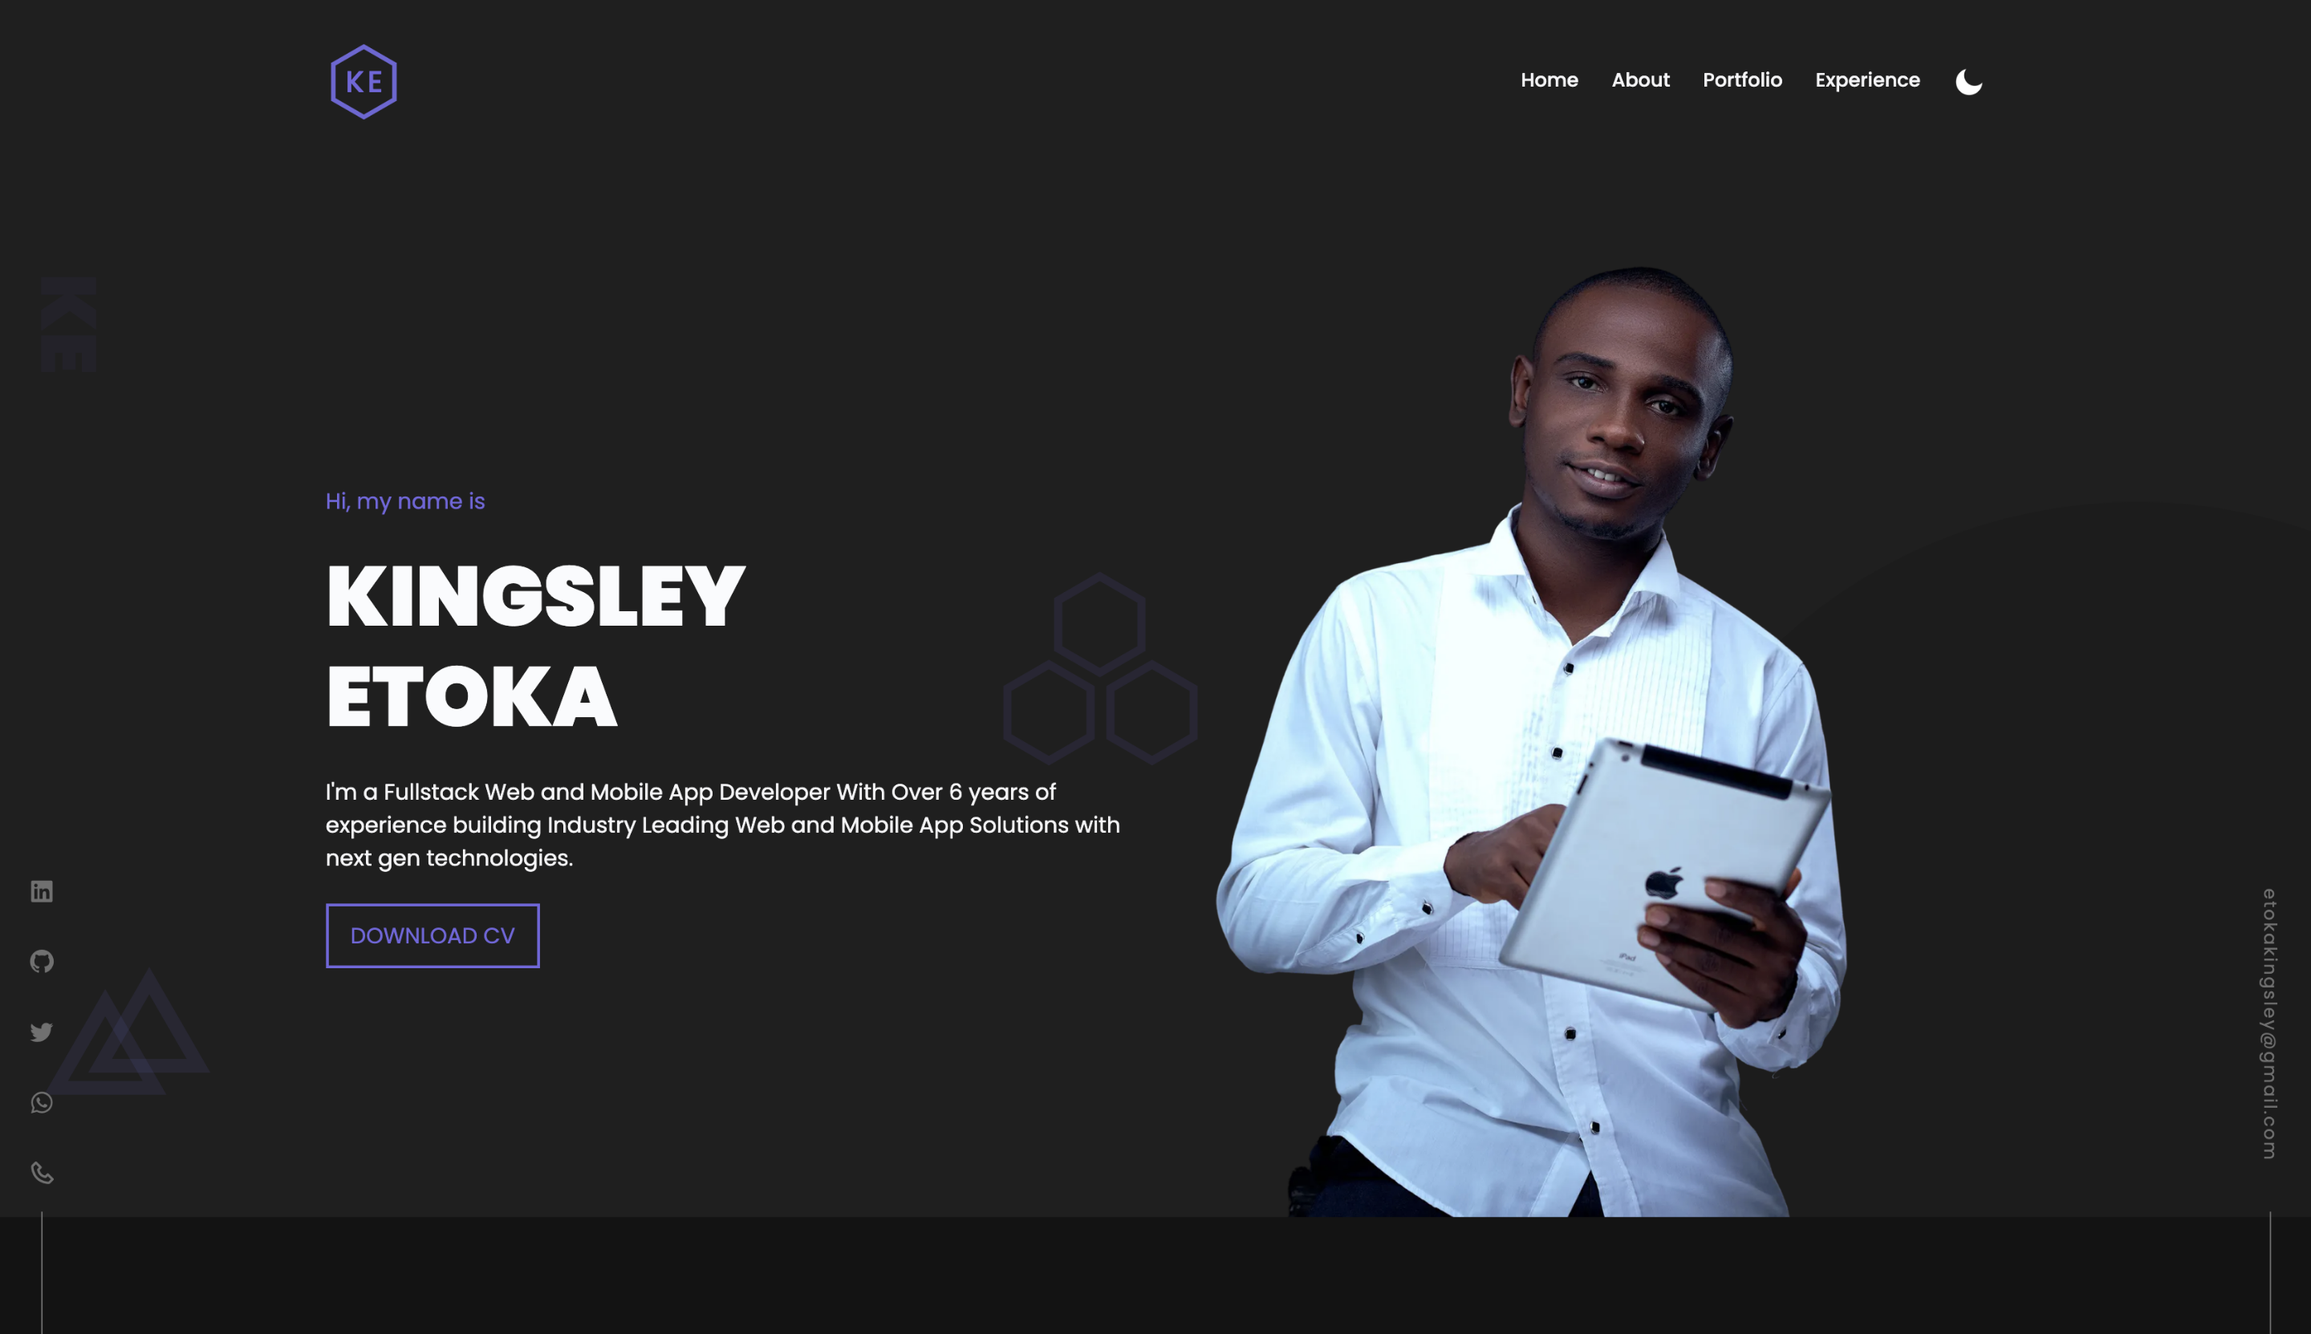
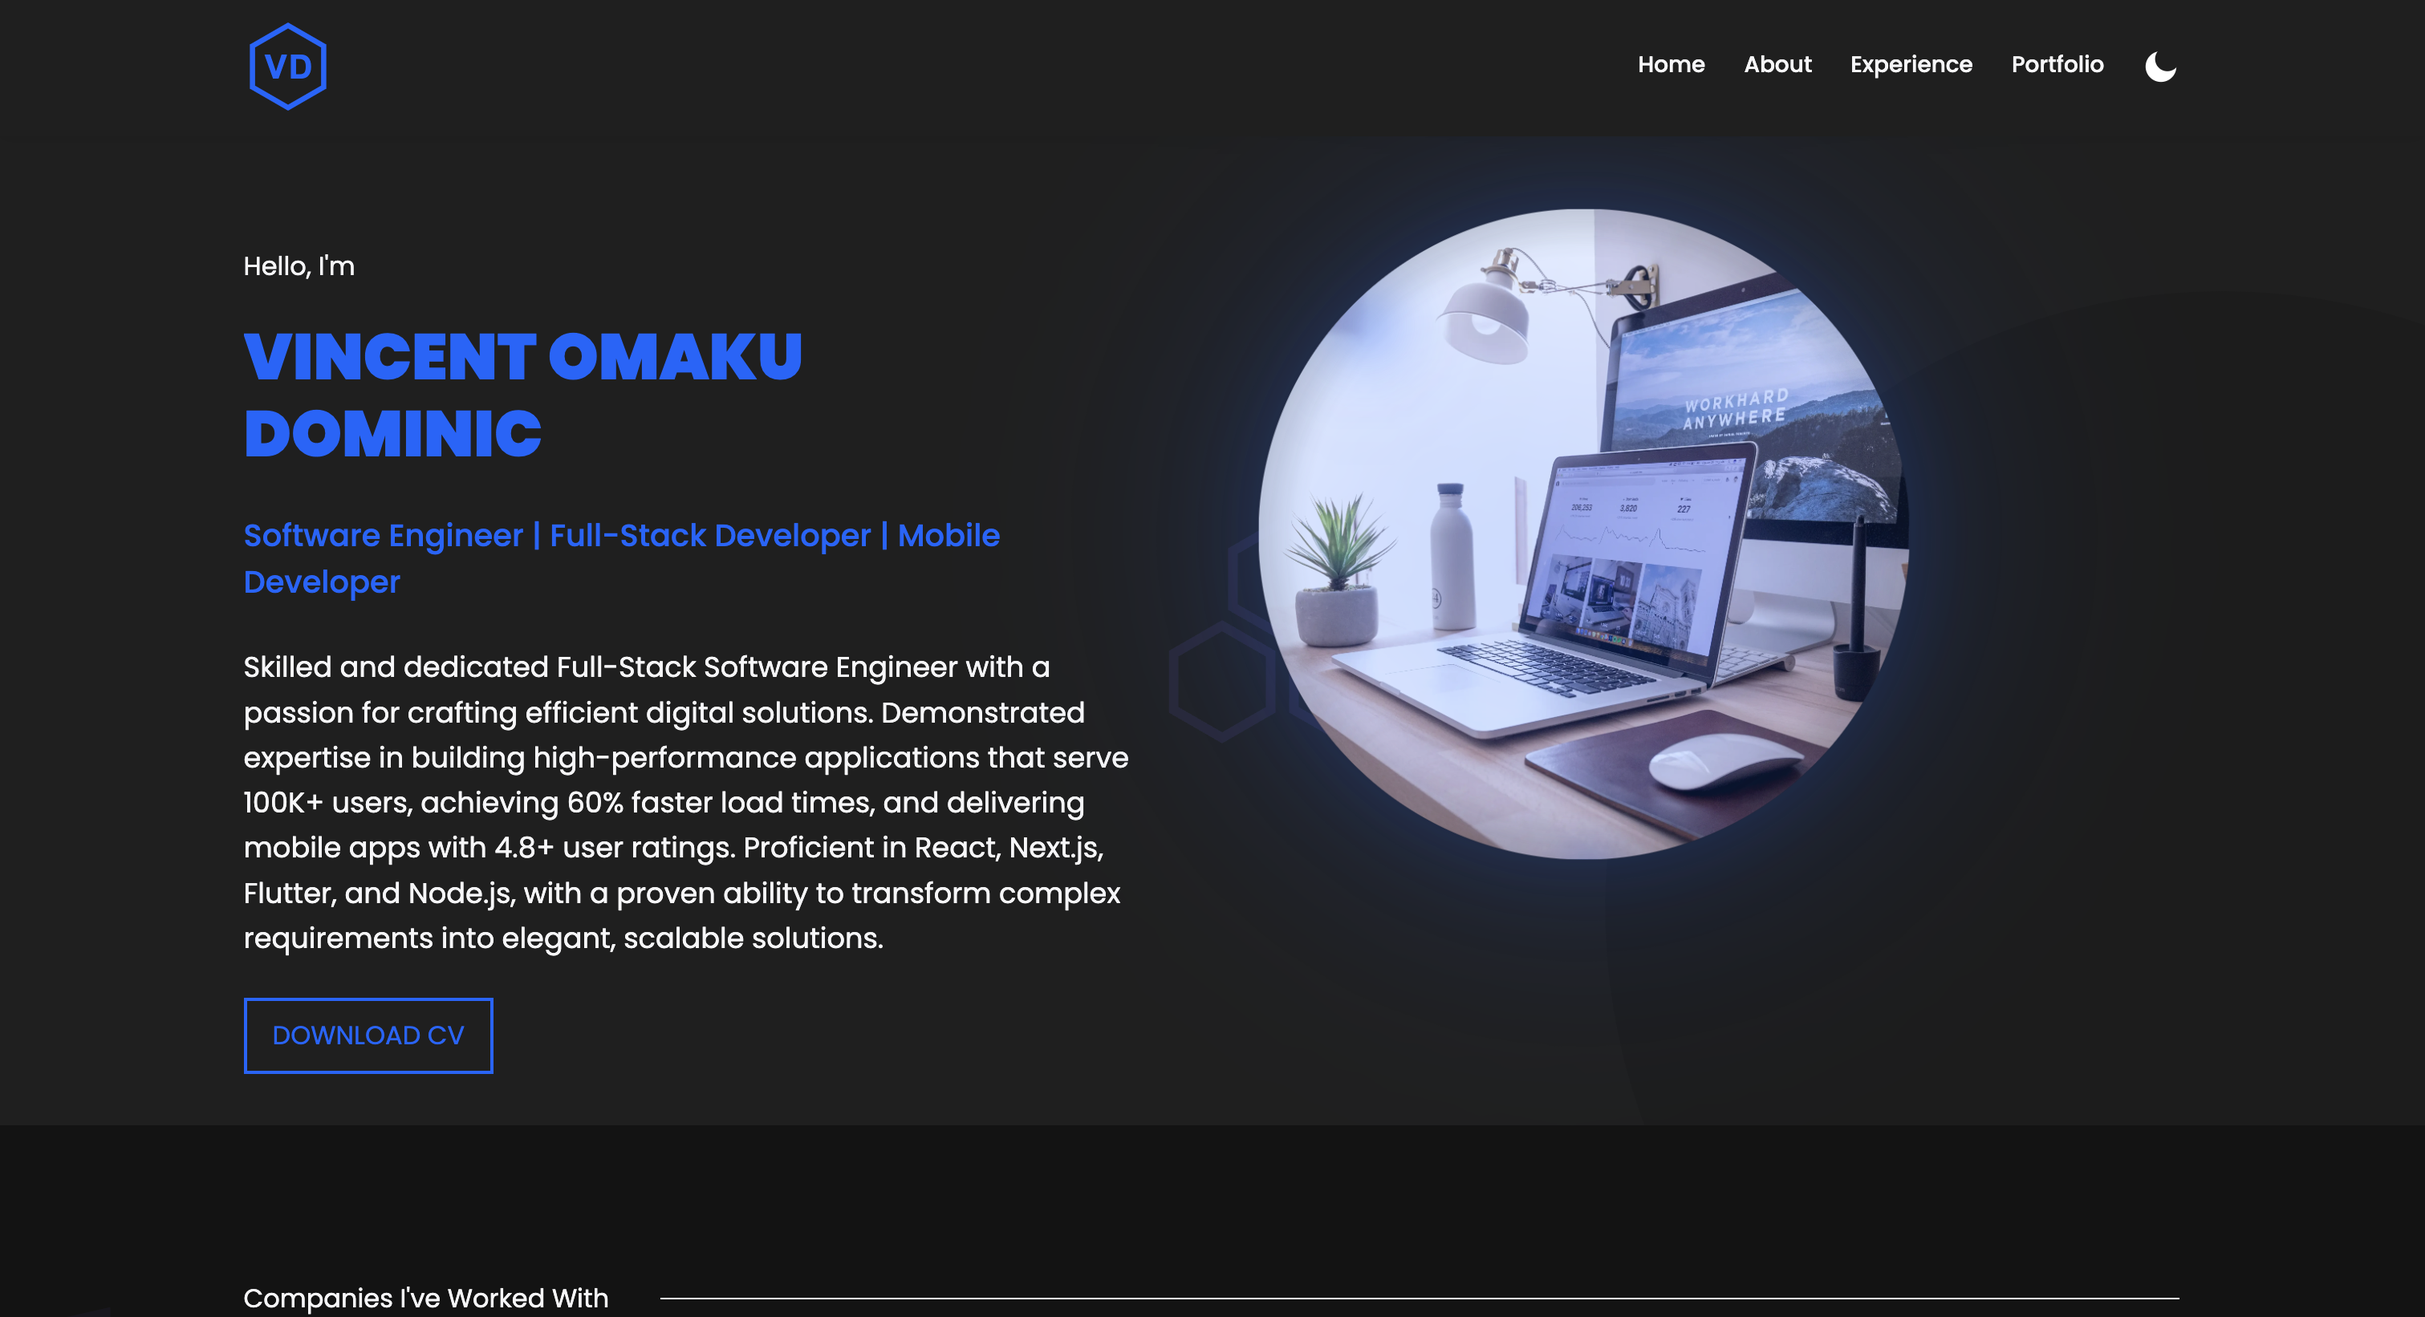
update

diff --git a/public/sw.js b/public/sw.js
@@ -1,1 +1,1 @@
-if(!self.define){let e,s={};const a=(a,i)=>(a=new URL(a+".js",i).href,s[a]||new Promise((s=>{if("document"in self){const e=document.createElement("script");e.src=a,e.onload=s,document.head.appendChild(e)}else e=a,importScripts(a),s()})).then((()=>{let e=s[a];if(!e)throw new Error(`Module ${a} didn’t register its module`);return e})));self.define=(i,n)=>{const c=e||("document"in self?document.currentScript.src:"")||location.href;if(s[c])return;let t={};const o=e=>a(e,c),r={module:{uri:c},exports:t,require:o};s[c]=Promise.all(i.map((e=>r[e]||o(e)))).then((e=>(n(...e),t)))}}define(["./workbox-588899ac"],(function(e){"use strict";importScripts(),self.skipWaiting(),e.clientsClaim(),e.precacheAndRoute([{url:"/_next/static/cGV76hQw7ozEcZ3VSiA8b/_buildManifest.js",revision:"b0f7df41da07bbadd2c878c389c5e16b"},{url:"/_next/static/cGV76hQw7ozEcZ3VSiA8b/_ssgManifest.js",revision:"b6652df95db52feb4daf4eca35380933"},{url:"/_next/static/chunks/203.a92547a29ded5f08.js",revision:"a92547a29ded5f08"},{url:"/_next/static/chunks/469-3c38bdaba35f8eb5.js",revision:"3c38bdaba35f8eb5"},{url:"/_next/static/chunks/894.8b3e79a97f1244f1.js",revision:"8b3e79a97f1244f1"},{url:"/_next/static/chunks/framework-114634acb84f8baa.js",revision:"114634acb84f8baa"},{url:"/_next/static/chunks/main-82985ae60525bf34.js",revision:"82985ae60525bf34"},{url:"/_next/static/chunks/pages/_app-8a96fbfdc07cc0f0.js",revision:"8a96fbfdc07cc0f0"},{url:"/_next/static/chunks/pages/_error-4b61be14865575c5.js",revision:"4b61be14865575c5"},{url:"/_next/static/chunks/pages/index-193119fce55f0b25.js",revision:"193119fce55f0b25"},{url:"/_next/static/chunks/polyfills-c67a75d1b6f99dc8.js",revision:"837c0df77fd5009c9e46d446188ecfd0"},{url:"/_next/static/chunks/webpack-fe125cd189e955c2.js",revision:"fe125cd189e955c2"},{url:"/assets/docs/vincent_dominic.pdf",revision:"f1c08307037273efec64fe66a0592853"},{url:"/assets/images/break.png",revision:"f1c5b672621f03b1082b946a5a6556a8"},{url:"/assets/images/curr@2x.png",revision:"b9f2abb49e3a57c4d437cb14b17161c1"},{url:"/assets/images/hse.png",revision:"2406a233fccc61de42f74e5c5b0698c7"},{url:"/assets/images/kingsley.png",revision:"0e36ad66e85fb8894c8aebb1f970ca67"},{url:"/assets/images/kingsley@2x.png",revision:"fb8e51361b15d1489671eddac2c06c32"},{url:"/assets/images/logo/bict.png",revision:"93a612b387f4ed719d3289c4495756bf"},{url:"/assets/images/logo/cousent.png",revision:"3b1b5edcadeda30f5ff4a5fb94e2349b"},{url:"/assets/images/logo/dev_amplify.png",revision:"6d4877ce401423d4479833e876d5a09c"},{url:"/assets/images/logo/hoh.png",revision:"cbb2bae79246f72db919cc846e0f6153"},{url:"/assets/images/logo/nova.png",revision:"77b6a36d8d14a6431420cb53010546d2"},{url:"/assets/images/logo/oak_soft.png",revision:"6f60bf6eaa19b20d380909b2361227a4"},{url:"/assets/images/man.png",revision:"5ac47fa62cb700b810c9cb9e76d7d584"},{url:"/assets/images/mayuk@2x.png",revision:"e7454771adb7d1dca5b37a3b80eb6a75"},{url:"/assets/images/mlm.png",revision:"f334f23018520f8c4c109c53861fa00c"},{url:"/assets/images/news.png",revision:"d3185178beebe6eb40d76c32b9cada2d"},{url:"/assets/images/nov.png",revision:"a0856a2d996c20c8e5c4f53f1aa3dd1f"},{url:"/assets/images/nova@2x.png",revision:"896aea10c8b97c3d56683478c080f2f0"},{url:"/assets/images/oil.png",revision:"918d503b9f35db45ce24ac0cd0ae5eab"},{url:"/assets/images/oilapp.png",revision:"641a87d2270a35f644ff019ddce97df5"},{url:"/assets/images/pf.png",revision:"84be5f6b08ee8179317f32a5adf8ab7d"},{url:"/assets/images/rest.png",revision:"27678741fe62fbe67c6bbc5f03930140"},{url:"/favicon.ico",revision:"cf984d6975a1599aba579ddffbb29133"},{url:"/images/icons/icon-128x128.png",revision:"882b4e6e68191208669b0f7cdcd4bcd5"},{url:"/images/icons/icon-144x144.png",revision:"ad8131d6ba2290a6fe30819e9a34da5c"},{url:"/images/icons/icon-152x152.png",revision:"b2f50f873e9057fad92ac0cb45f1ae8e"},{url:"/images/icons/icon-192x192.png",revision:"eb97e293f9075d2b4633ca8050acf13e"},{url:"/images/icons/icon-384x384.png",revision:"2ee3cb537b5d8b77688d58aef92d11e1"},{url:"/images/icons/icon-512x512.png",revision:"287c5fb3b132e54552c8ce60a13edece"},{url:"/images/icons/icon-72x72.png",revision:"f531daf54fda24f826a55762d8c887e8"},{url:"/images/icons/icon-96x96.png",revision:"1eccdc9dd36c8dfe2e714370af450db8"},{url:"/manifest.json",revision:"7aaf66de24c717068e6df06a74f2a3c5"},{url:"/next.svg",revision:"8e061864f388b47f33a1c3780831193e"},{url:"/thirteen.svg",revision:"53f96b8290673ef9d2895908e69b2f92"},{url:"/vercel.svg",revision:"61c6b19abff40ea7acd577be818f3976"}],{ignoreURLParametersMatching:[]}),e.cleanupOutdatedCaches(),e.registerRoute("/",new e.NetworkFirst({cacheName:"start-url",plugins:[{cacheWillUpdate:async({request:e,response:s,event:a,state:i})=>s&&"opaqueredirect"===s.type?new Response(s.body,{status:200,statusText:"OK",headers:s.headers}):s}]}),"GET"),e.registerRoute(/^https:\/\/fonts\.(?:gstatic)\.com\/.*/i,new e.CacheFirst({cacheName:"google-fonts-webfonts",plugins:[new e.ExpirationPlugin({maxEntries:4,maxAgeSeconds:31536e3})]}),"GET"),e.registerRoute(/^https:\/\/fonts\.(?:googleapis)\.com\/.*/i,new e.StaleWhileRevalidate({cacheName:"google-fonts-stylesheets",plugins:[new e.ExpirationPlugin({maxEntries:4,maxAgeSeconds:604800})]}),"GET"),e.registerRoute(/\.(?:eot|otf|ttc|ttf|woff|woff2|font.css)$/i,new e.StaleWhileRevalidate({cacheName:"static-font-assets",plugins:[new e.ExpirationPlugin({maxEntries:4,maxAgeSeconds:604800})]}),"GET"),e.registerRoute(/\.(?:jpg|jpeg|gif|png|svg|ico|webp)$/i,new e.StaleWhileRevalidate({cacheName:"static-image-assets",plugins:[new e.ExpirationPlugin({maxEntries:64,maxAgeSeconds:86400})]}),"GET"),e.registerRoute(/\/_next\/image\?url=.+$/i,new e.StaleWhileRevalidate({cacheName:"next-image",plugins:[new e.ExpirationPlugin({maxEntries:64,maxAgeSeconds:86400})]}),"GET"),e.registerRoute(/\.(?:mp3|wav|ogg)$/i,new e.CacheFirst({cacheName:"static-audio-assets",plugins:[new e.RangeRequestsPlugin,new e.ExpirationPlugin({maxEntries:32,maxAgeSeconds:86400})]}),"GET"),e.registerRoute(/\.(?:mp4)$/i,new e.CacheFirst({cacheName:"static-video-assets",plugins:[new e.RangeRequestsPlugin,new e.ExpirationPlugin({maxEntries:32,maxAgeSeconds:86400})]}),"GET"),e.registerRoute(/\.(?:js)$/i,new e.StaleWhileRevalidate({cacheName:"static-js-assets",plugins:[new e.ExpirationPlugin({maxEntries:32,maxAgeSeconds:86400})]}),"GET"),e.registerRoute(/\.(?:css|less)$/i,new e.StaleWhileRevalidate({cacheName:"static-style-assets",plugins:[new e.ExpirationPlugin({maxEntries:32,maxAgeSeconds:86400})]}),"GET"),e.registerRoute(/\/_next\/data\/.+\/.+\.json$/i,new e.StaleWhileRevalidate({cacheName:"next-data",plugins:[new e.ExpirationPlugin({maxEntries:32,maxAgeSeconds:86400})]}),"GET"),e.registerRoute(/\.(?:json|xml|csv)$/i,new e.NetworkFirst({cacheName:"static-data-assets",plugins:[new e.ExpirationPlugin({maxEntries:32,maxAgeSeconds:86400})]}),"GET"),e.registerRoute((({url:e})=>{if(!(self.origin===e.origin))return!1;const s=e.pathname;return!s.startsWith("/api/auth/")&&!!s.startsWith("/api/")}),new e.NetworkFirst({cacheName:"apis",networkTimeoutSeconds:10,plugins:[new e.ExpirationPlugin({maxEntries:16,maxAgeSeconds:86400})]}),"GET"),e.registerRoute((({url:e})=>{if(!(self.origin===e.origin))return!1;return!e.pathname.startsWith("/api/")}),new e.NetworkFirst({cacheName:"others",networkTimeoutSeconds:10,plugins:[new e.ExpirationPlugin({maxEntries:32,maxAgeSeconds:86400})]}),"GET"),e.registerRoute((({url:e})=>!(self.origin===e.origin)),new e.NetworkFirst({cacheName:"cross-origin",networkTimeoutSeconds:10,plugins:[new e.ExpirationPlugin({maxEntries:32,maxAgeSeconds:3600})]}),"GET")}));
+if(!self.define){let e,s={};const a=(a,i)=>(a=new URL(a+".js",i).href,s[a]||new Promise((s=>{if("document"in self){const e=document.createElement("script");e.src=a,e.onload=s,document.head.appendChild(e)}else e=a,importScripts(a),s()})).then((()=>{let e=s[a];if(!e)throw new Error(`Module ${a} didn’t register its module`);return e})));self.define=(i,n)=>{const c=e||("document"in self?document.currentScript.src:"")||location.href;if(s[c])return;let t={};const o=e=>a(e,c),r={module:{uri:c},exports:t,require:o};s[c]=Promise.all(i.map((e=>r[e]||o(e)))).then((e=>(n(...e),t)))}}define(["./workbox-588899ac"],(function(e){"use strict";importScripts(),self.skipWaiting(),e.clientsClaim(),e.precacheAndRoute([{url:"/_next/static/cGV76hQw7ozEcZ3VSiA8b/_buildManifest.js",revision:"b0f7df41da07bbadd2c878c389c5e16b"},{url:"/_next/static/cGV76hQw7ozEcZ3VSiA8b/_ssgManifest.js",revision:"b6652df95db52feb4daf4eca35380933"},{url:"/_next/static/chunks/203.a92547a29ded5f08.js",revision:"a92547a29ded5f08"},{url:"/_next/static/chunks/469-3c38bdaba35f8eb5.js",revision:"3c38bdaba35f8eb5"},{url:"/_next/static/chunks/894.8b3e79a97f1244f1.js",revision:"8b3e79a97f1244f1"},{url:"/_next/static/chunks/framework-114634acb84f8baa.js",revision:"114634acb84f8baa"},{url:"/_next/static/chunks/main-82985ae60525bf34.js",revision:"82985ae60525bf34"},{url:"/_next/static/chunks/pages/_app-8a96fbfdc07cc0f0.js",revision:"8a96fbfdc07cc0f0"},{url:"/_next/static/chunks/pages/_error-4b61be14865575c5.js",revision:"4b61be14865575c5"},{url:"/_next/static/chunks/pages/index-193119fce55f0b25.js",revision:"193119fce55f0b25"},{url:"/_next/static/chunks/polyfills-c67a75d1b6f99dc8.js",revision:"837c0df77fd5009c9e46d446188ecfd0"},{url:"/_next/static/chunks/webpack-fe125cd189e955c2.js",revision:"fe125cd189e955c2"},{url:"/assets/docs/vincent_dominic.pdf",revision:"f1c08307037273efec64fe66a0592853"},{url:"/assets/images/break.png",revision:"f1c5b672621f03b1082b946a5a6556a8"},{url:"/assets/images/curr@2x.png",revision:"b9f2abb49e3a57c4d437cb14b17161c1"},{url:"/assets/images/hse.png",revision:"2406a233fccc61de42f74e5c5b0698c7"},{url:"/assets/images/vincent.jpg",revision:"0e36ad66e85fb8894c8aebb1f970ca67"},{url:"/assets/images/vincent.jpg",revision:"fb8e51361b15d1489671eddac2c06c32"},{url:"/assets/images/logo/bict.png",revision:"93a612b387f4ed719d3289c4495756bf"},{url:"/assets/images/logo/cousent.png",revision:"3b1b5edcadeda30f5ff4a5fb94e2349b"},{url:"/assets/images/logo/dev_amplify.png",revision:"6d4877ce401423d4479833e876d5a09c"},{url:"/assets/images/logo/hoh.png",revision:"cbb2bae79246f72db919cc846e0f6153"},{url:"/assets/images/logo/nova.png",revision:"77b6a36d8d14a6431420cb53010546d2"},{url:"/assets/images/logo/oak_soft.png",revision:"6f60bf6eaa19b20d380909b2361227a4"},{url:"/assets/images/man.png",revision:"5ac47fa62cb700b810c9cb9e76d7d584"},{url:"/assets/images/mayuk@2x.png",revision:"e7454771adb7d1dca5b37a3b80eb6a75"},{url:"/assets/images/mlm.png",revision:"f334f23018520f8c4c109c53861fa00c"},{url:"/assets/images/news.png",revision:"d3185178beebe6eb40d76c32b9cada2d"},{url:"/assets/images/nov.png",revision:"a0856a2d996c20c8e5c4f53f1aa3dd1f"},{url:"/assets/images/nova@2x.png",revision:"896aea10c8b97c3d56683478c080f2f0"},{url:"/assets/images/oil.png",revision:"918d503b9f35db45ce24ac0cd0ae5eab"},{url:"/assets/images/oilapp.png",revision:"641a87d2270a35f644ff019ddce97df5"},{url:"/assets/images/pf.png",revision:"84be5f6b08ee8179317f32a5adf8ab7d"},{url:"/assets/images/rest.png",revision:"27678741fe62fbe67c6bbc5f03930140"},{url:"/favicon.ico",revision:"cf984d6975a1599aba579ddffbb29133"},{url:"/images/icons/icon-128x128.png",revision:"882b4e6e68191208669b0f7cdcd4bcd5"},{url:"/images/icons/icon-144x144.png",revision:"ad8131d6ba2290a6fe30819e9a34da5c"},{url:"/images/icons/icon-152x152.png",revision:"b2f50f873e9057fad92ac0cb45f1ae8e"},{url:"/images/icons/icon-192x192.png",revision:"eb97e293f9075d2b4633ca8050acf13e"},{url:"/images/icons/icon-384x384.png",revision:"2ee3cb537b5d8b77688d58aef92d11e1"},{url:"/images/icons/icon-512x512.png",revision:"287c5fb3b132e54552c8ce60a13edece"},{url:"/images/icons/icon-72x72.png",revision:"f531daf54fda24f826a55762d8c887e8"},{url:"/images/icons/icon-96x96.png",revision:"1eccdc9dd36c8dfe2e714370af450db8"},{url:"/manifest.json",revision:"7aaf66de24c717068e6df06a74f2a3c5"},{url:"/next.svg",revision:"8e061864f388b47f33a1c3780831193e"},{url:"/thirteen.svg",revision:"53f96b8290673ef9d2895908e69b2f92"},{url:"/vercel.svg",revision:"61c6b19abff40ea7acd577be818f3976"}],{ignoreURLParametersMatching:[]}),e.cleanupOutdatedCaches(),e.registerRoute("/",new e.NetworkFirst({cacheName:"start-url",plugins:[{cacheWillUpdate:async({request:e,response:s,event:a,state:i})=>s&&"opaqueredirect"===s.type?new Response(s.body,{status:200,statusText:"OK",headers:s.headers}):s}]}),"GET"),e.registerRoute(/^https:\/\/fonts\.(?:gstatic)\.com\/.*/i,new e.CacheFirst({cacheName:"google-fonts-webfonts",plugins:[new e.ExpirationPlugin({maxEntries:4,maxAgeSeconds:31536e3})]}),"GET"),e.registerRoute(/^https:\/\/fonts\.(?:googleapis)\.com\/.*/i,new e.StaleWhileRevalidate({cacheName:"google-fonts-stylesheets",plugins:[new e.ExpirationPlugin({maxEntries:4,maxAgeSeconds:604800})]}),"GET"),e.registerRoute(/\.(?:eot|otf|ttc|ttf|woff|woff2|font.css)$/i,new e.StaleWhileRevalidate({cacheName:"static-font-assets",plugins:[new e.ExpirationPlugin({maxEntries:4,maxAgeSeconds:604800})]}),"GET"),e.registerRoute(/\.(?:jpg|jpeg|gif|png|svg|ico|webp)$/i,new e.StaleWhileRevalidate({cacheName:"static-image-assets",plugins:[new e.ExpirationPlugin({maxEntries:64,maxAgeSeconds:86400})]}),"GET"),e.registerRoute(/\/_next\/image\?url=.+$/i,new e.StaleWhileRevalidate({cacheName:"next-image",plugins:[new e.ExpirationPlugin({maxEntries:64,maxAgeSeconds:86400})]}),"GET"),e.registerRoute(/\.(?:mp3|wav|ogg)$/i,new e.CacheFirst({cacheName:"static-audio-assets",plugins:[new e.RangeRequestsPlugin,new e.ExpirationPlugin({maxEntries:32,maxAgeSeconds:86400})]}),"GET"),e.registerRoute(/\.(?:mp4)$/i,new e.CacheFirst({cacheName:"static-video-assets",plugins:[new e.RangeRequestsPlugin,new e.ExpirationPlugin({maxEntries:32,maxAgeSeconds:86400})]}),"GET"),e.registerRoute(/\.(?:js)$/i,new e.StaleWhileRevalidate({cacheName:"static-js-assets",plugins:[new e.ExpirationPlugin({maxEntries:32,maxAgeSeconds:86400})]}),"GET"),e.registerRoute(/\.(?:css|less)$/i,new e.StaleWhileRevalidate({cacheName:"static-style-assets",plugins:[new e.ExpirationPlugin({maxEntries:32,maxAgeSeconds:86400})]}),"GET"),e.registerRoute(/\/_next\/data\/.+\/.+\.json$/i,new e.StaleWhileRevalidate({cacheName:"next-data",plugins:[new e.ExpirationPlugin({maxEntries:32,maxAgeSeconds:86400})]}),"GET"),e.registerRoute(/\.(?:json|xml|csv)$/i,new e.NetworkFirst({cacheName:"static-data-assets",plugins:[new e.ExpirationPlugin({maxEntries:32,maxAgeSeconds:86400})]}),"GET"),e.registerRoute((({url:e})=>{if(!(self.origin===e.origin))return!1;const s=e.pathname;return!s.startsWith("/api/auth/")&&!!s.startsWith("/api/")}),new e.NetworkFirst({cacheName:"apis",networkTimeoutSeconds:10,plugins:[new e.ExpirationPlugin({maxEntries:16,maxAgeSeconds:86400})]}),"GET"),e.registerRoute((({url:e})=>{if(!(self.origin===e.origin))return!1;return!e.pathname.startsWith("/api/")}),new e.NetworkFirst({cacheName:"others",networkTimeoutSeconds:10,plugins:[new e.ExpirationPlugin({maxEntries:32,maxAgeSeconds:86400})]}),"GET"),e.registerRoute((({url:e})=>!(self.origin===e.origin)),new e.NetworkFirst({cacheName:"cross-origin",networkTimeoutSeconds:10,plugins:[new e.ExpirationPlugin({maxEntries:32,maxAgeSeconds:3600})]}),"GET")}));

diff --git a/src/components/partial/home/Portfolio.tsx b/src/components/partial/home/Portfolio.tsx
@@ -210,7 +210,7 @@ const projects: Wp = {
                 },
                 {
                     icon: 'bx bx-link-alt',
-                    link: 'https://kingsleyetoka.com'
+                    link: 'https://vincentdominic.vercel.app'
                 }
             ]
         },
